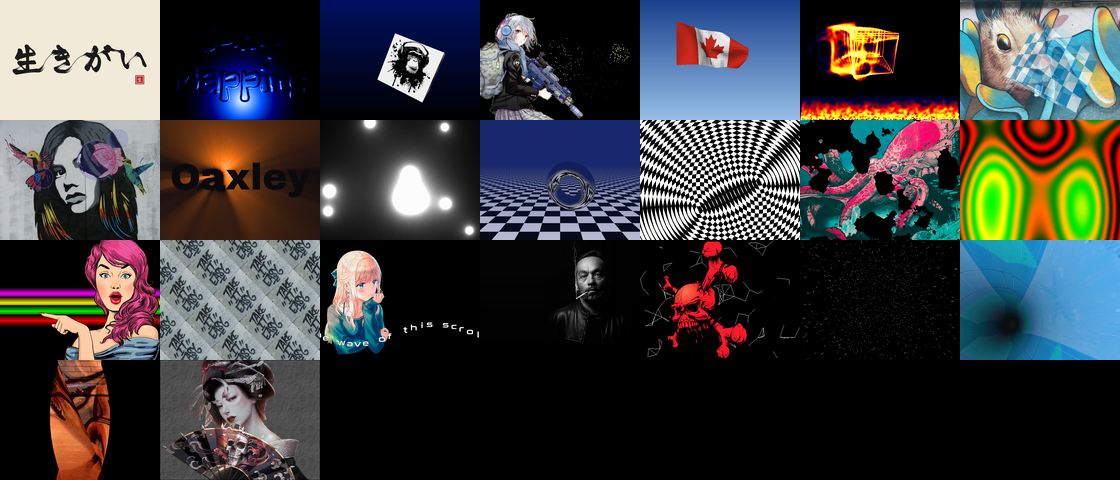
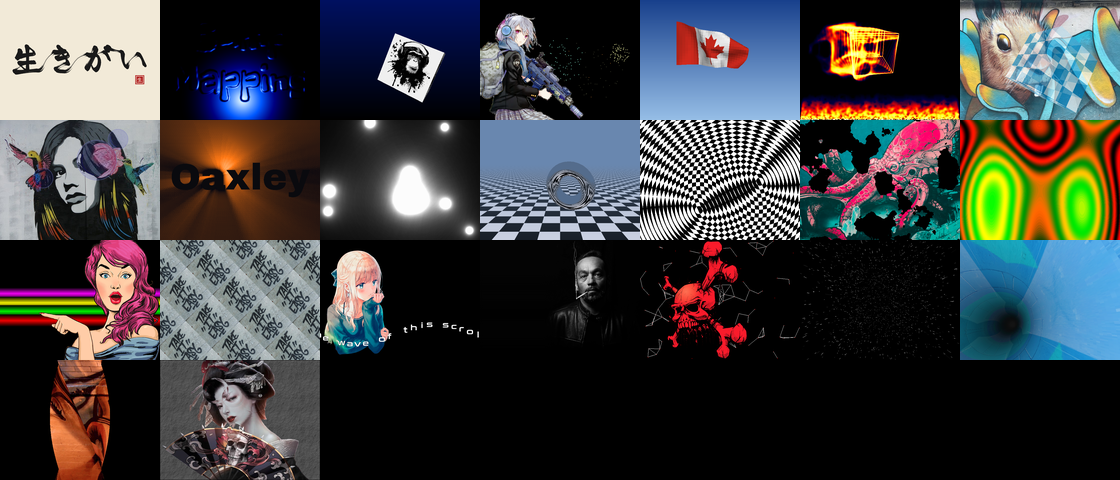
feat(ts-mirror): softer daylight sky

Changed region(s): [[0.4062, 0.25, 0.5938, 0.5]]

diff --git a/files/effects/ts-mirror/src/floor.ts b/files/effects/ts-mirror/src/floor.ts
@@ -31,7 +31,7 @@ export const TILE = 60; // checker square size (world units)
 export const FOG = 1500; // floor light: exp(-distance / FOG), mixed toward the sky
 export const MIRROR_FOG = 600; // shorter fog in the mirror: the 256x256 map can't show far squares
 
-export const SKY: [number, number, number] = [24, 40, 110]; // sky and fog colour
+export const SKY: [number, number, number] = [105, 135, 175]; // sky and fog colour
 export const CHECK_A: [number, number, number] = [230, 230, 240]; // checker colours
 export const CHECK_B: [number, number, number] = [0, 0, 0];
 
